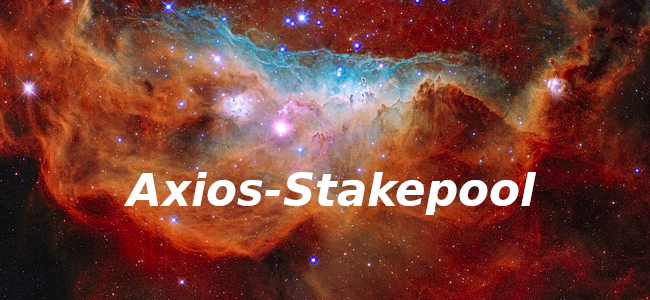
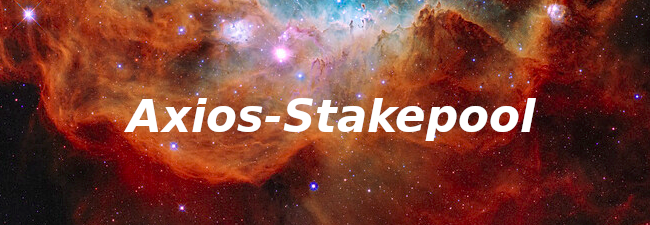
Fix image

diff --git a/_layouts/default.html b/_layouts/default.html
@@ -41,7 +41,7 @@
 
       <section>
         <div id="title">
-          <image src="assets/Axios-Banner.png" style="height:200px;"> </image>
+          <image src="assets/Axios-Banner.png"> </image>
           <hr>
           <span class="credits left">Project maintained by <a href="{{ site.github.owner_url }}">{{ site.github.owner_name }}</a></span>
         </div>
